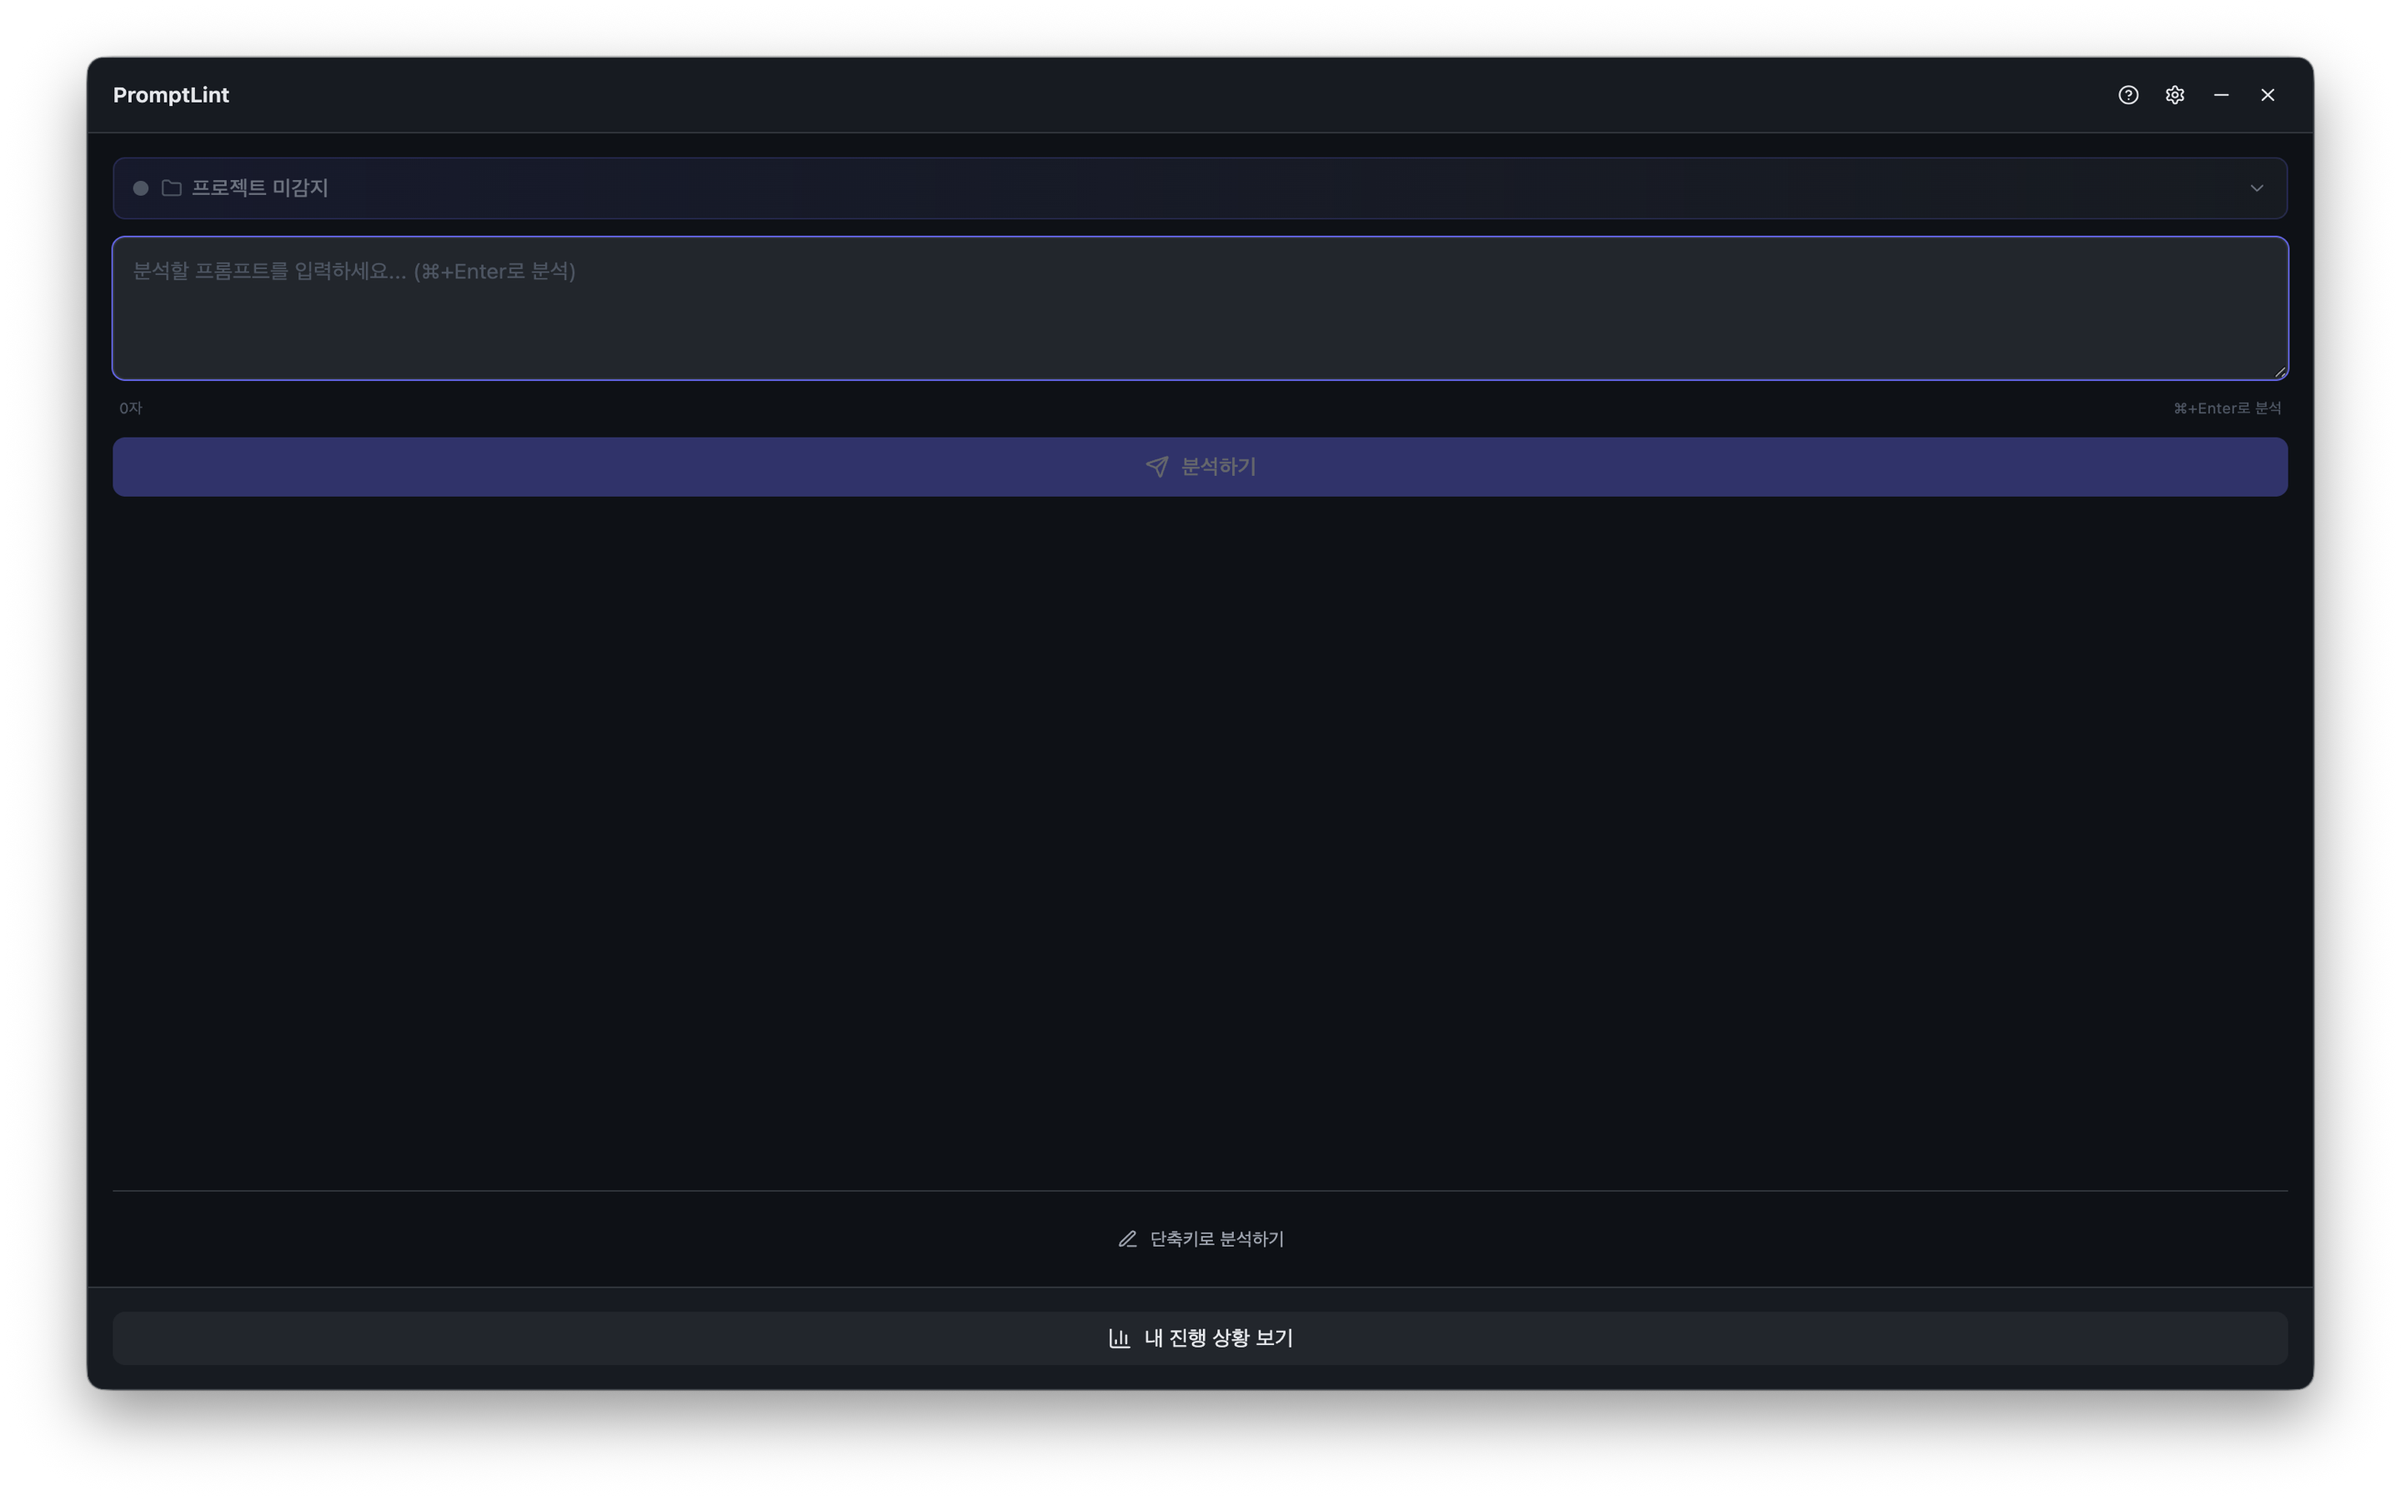
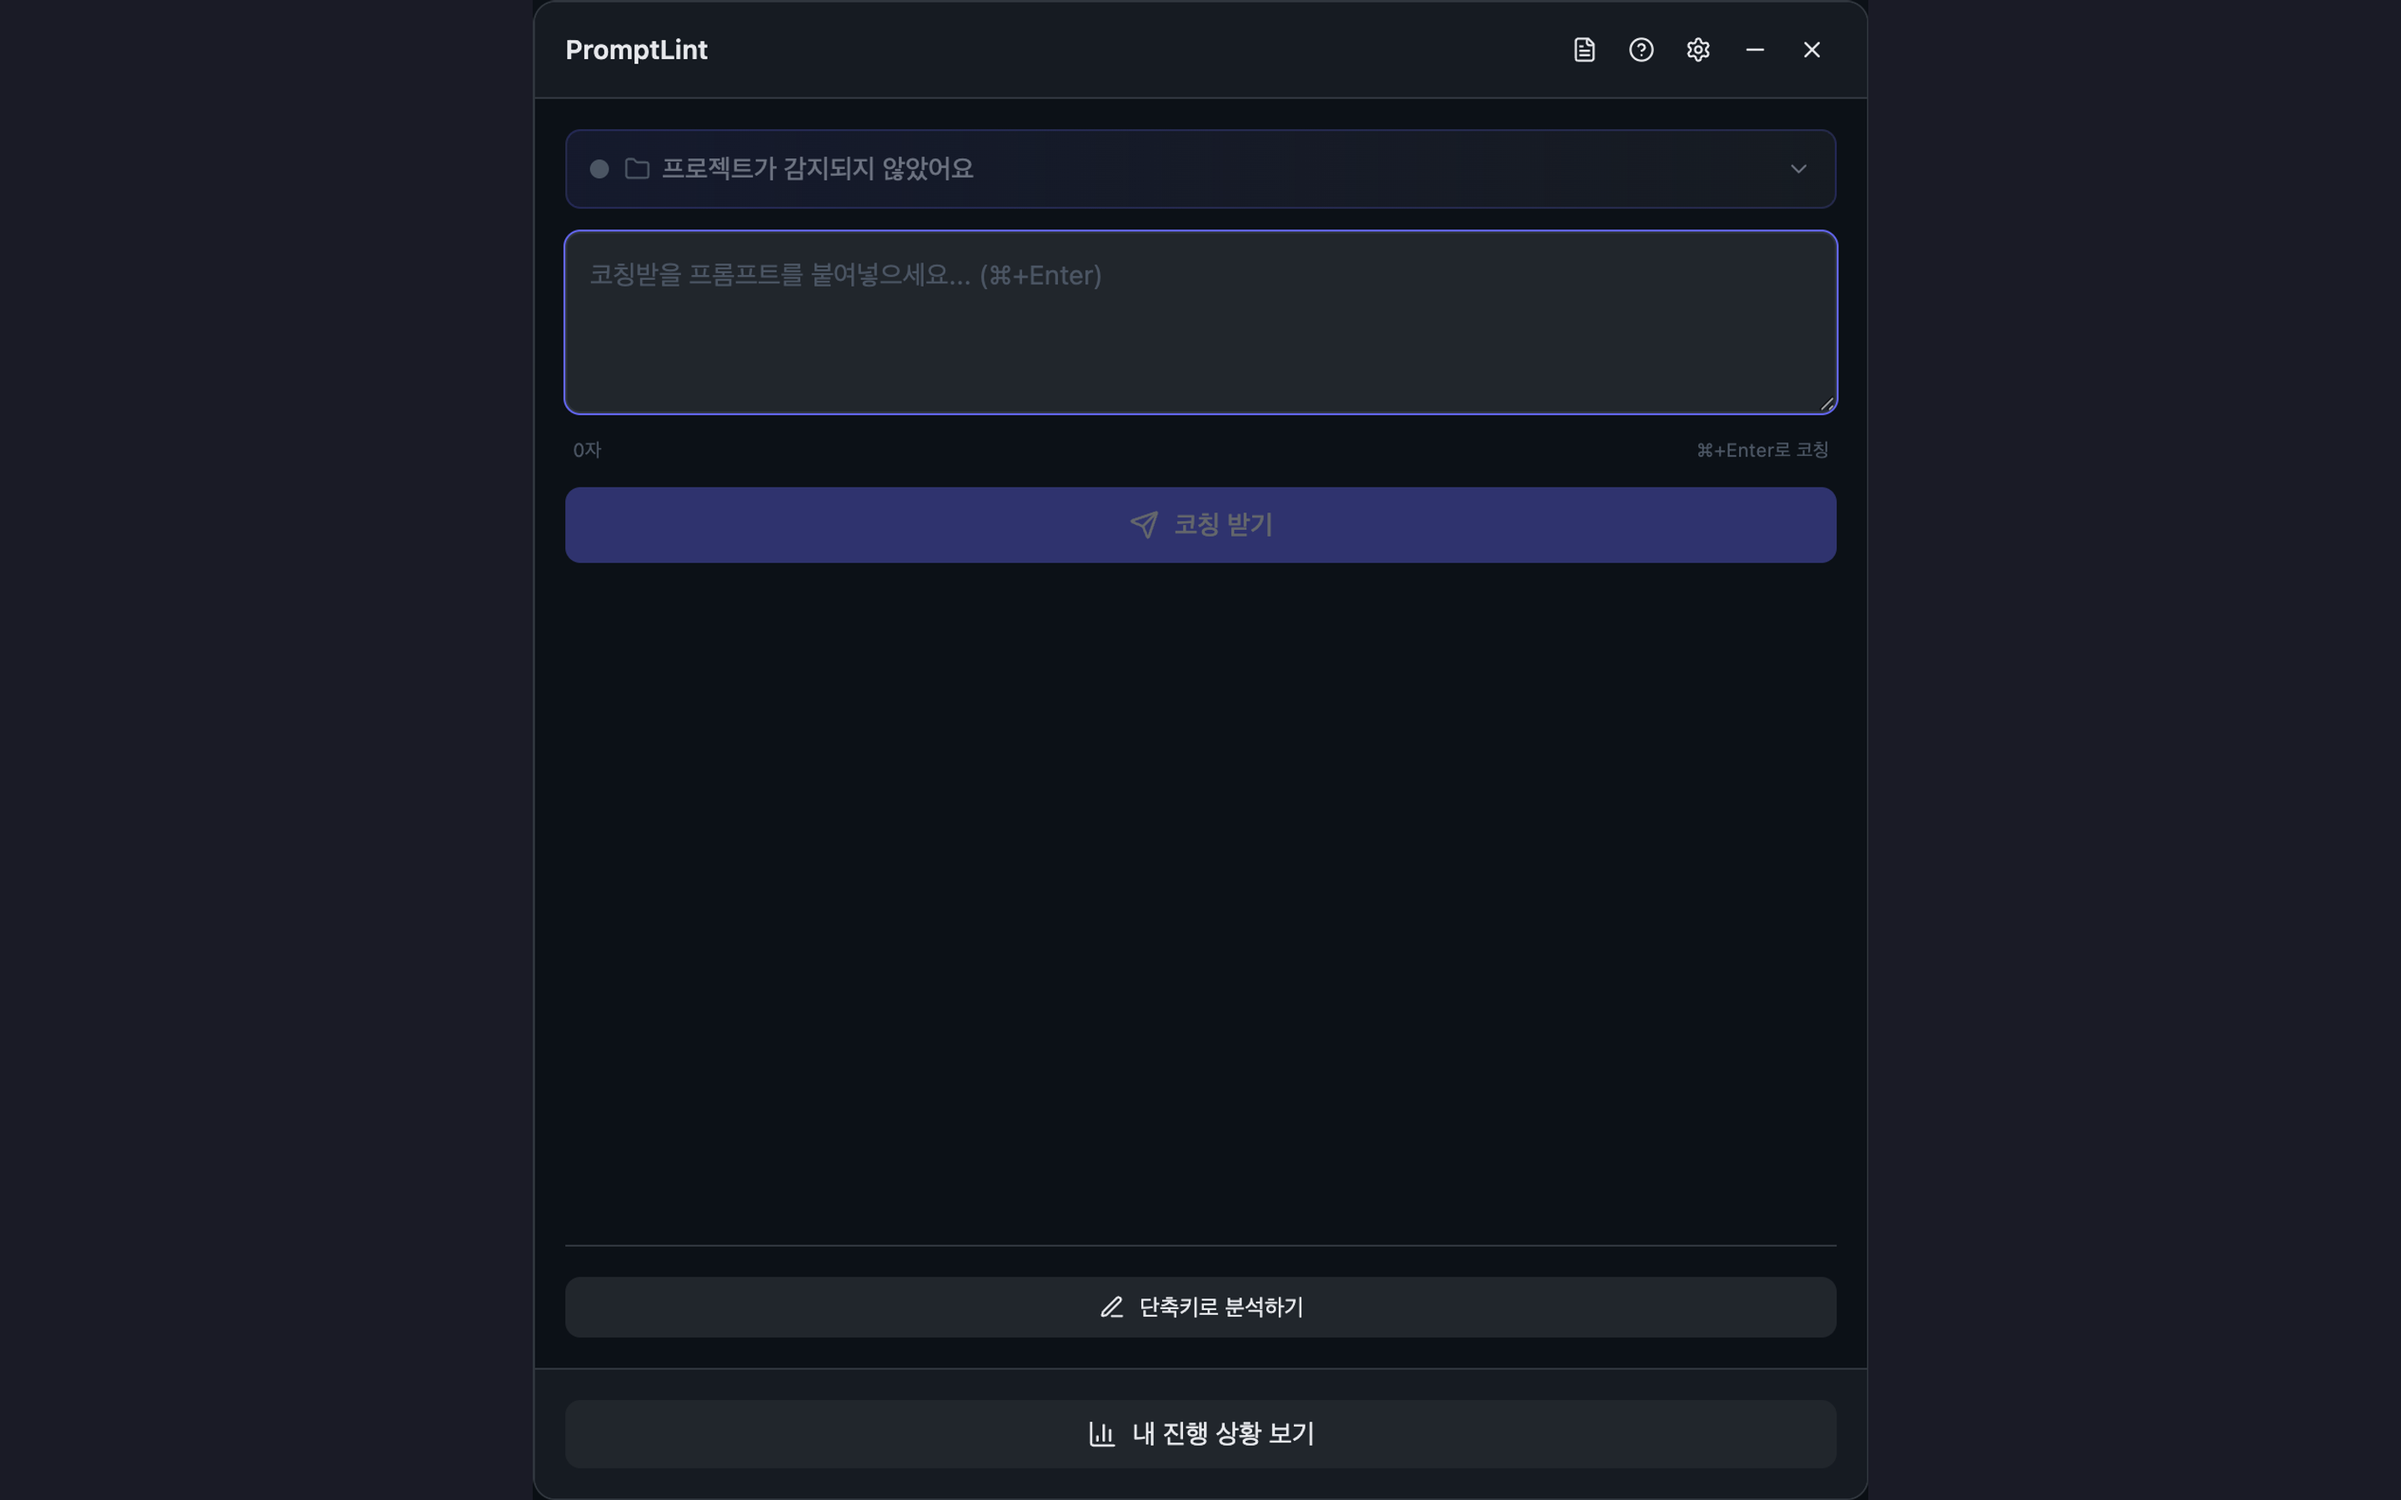
chore(desktop): add App Store metadata and coaching UI screenshots
- Add APPSTORE_METADATA.md with ko/en descriptions for v0.1.14
- Add capture-appstore-screenshots.ts (Playwright + Electron)
- Update all 5 screenshots to reflect coaching UX redesign

Changed region(s): [[0.0, 0.0, 1.0, 1.0]]

diff --git a/desktop/scripts/capture-appstore-screenshots.ts b/desktop/scripts/capture-appstore-screenshots.ts
@@ -1,0 +1,154 @@
+#!/usr/bin/env npx tsx
+/**
+ * App Store Screenshot Capture (Coaching UX)
+ *
+ * Uses Playwright + Electron to capture real UI screenshots.
+ * Requires: npm run build:all (already built)
+ *
+ * Run: npx tsx scripts/capture-appstore-screenshots.ts
+ */
+
+import { _electron as electron } from 'playwright';
+import { join } from 'path';
+import { mkdtempSync, rmSync, mkdirSync, existsSync, renameSync } from 'fs';
+import { tmpdir } from 'os';
+import sharp from 'sharp';
+
+const SCREENSHOT_DIR = join(process.cwd(), 'screenshots');
+const TARGET_WIDTH = 2880;
+const TARGET_HEIGHT = 1800;
+
+const SAMPLE_PROMPT = `현재 상황을 분석해줘. 코드를 리팩토링하고 싶은데 어떻게 하면 좋을까? 버그도 있는 것 같고, 테스트도 추가해야 할 것 같아. 전체적으로 개선할 부분을 알려줘.`;
+
+async function resizeTo2x(inputPath: string): Promise<void> {
+  const tmpPath = inputPath + '.tmp';
+  await sharp(inputPath)
+    .resize(TARGET_WIDTH, TARGET_HEIGHT, {
+      fit: 'contain',
+      background: { r: 26, g: 27, b: 38, alpha: 1 },
+    })
+    .png()
+    .toFile(tmpPath);
+  renameSync(tmpPath, inputPath);
+}
+
+async function main() {
+  console.log('App Store Screenshot Capture');
+  console.log('============================\n');
+
+  if (!existsSync(SCREENSHOT_DIR)) {
+    mkdirSync(SCREENSHOT_DIR, { recursive: true });
+  }
+
+  const mainPath = join(process.cwd(), 'dist', 'main', 'index.js');
+  const testDbDir = mkdtempSync(join(tmpdir(), 'promptlint-screenshots-'));
+
+  console.log('Launching Electron app...');
+  const app = await electron.launch({
+    args: [mainPath],
+    env: {
+      ...process.env,
+      NODE_ENV: 'test',
+      PROMPTLINT_DB_DIR: testDbDir,
+      ELECTRON_DISABLE_SECURITY_WARNINGS: 'true',
+    },
+  });
+
+  const mainWindow = await app.firstWindow();
+  await mainWindow.waitForLoadState('domcontentloaded');
+  await mainWindow.waitForTimeout(2000);
+  console.log('App ready.\n');
+
+  // --- Screenshot 1: Direct Input (empty state) ---
+  console.log('[1/5] Direct Input (empty state)');
+  const directInputBtn = mainWindow.locator('button:has-text("직접 입력"), button:has-text("Direct Input"), button:has-text("직접 입력하기")');
+  if (await directInputBtn.isVisible({ timeout: 3000 }).catch(() => false)) {
+    await directInputBtn.click();
+    await mainWindow.waitForTimeout(500);
+  }
+  await mainWindow.screenshot({ path: join(SCREENSHOT_DIR, '1-direct-input.png') });
+  await resizeTo2x(join(SCREENSHOT_DIR, '1-direct-input.png'));
+  console.log('  Saved.\n');
+
+  // --- Trigger analysis ---
+  console.log('Sending prompt for analysis...');
+  await app.evaluate(
+    ({ BrowserWindow }, payload) => {
+      const windows = BrowserWindow.getAllWindows();
+      if (windows.length > 0) {
+        windows[0].webContents.send('clipboard-text', payload);
+      }
+    },
+    {
+      text: SAMPLE_PROMPT,
+      capturedContext: null,
+      isSourceAppBlocked: false,
+      sourceApp: 'test',
+    }
+  );
+
+  await mainWindow.waitForSelector('.grade-badge', { timeout: 15000 });
+  await mainWindow.waitForTimeout(1000);
+  console.log('Analysis complete.\n');
+
+  // --- Screenshot 2: Coaching Analysis (TopFixCard + GoldenMiniBar) ---
+  console.log('[2/5] Coaching Analysis (main view)');
+  await mainWindow.evaluate(() => {
+    document.querySelector('.overflow-y-auto')?.scrollTo(0, 0);
+  });
+  await mainWindow.waitForTimeout(500);
+  await mainWindow.screenshot({ path: join(SCREENSHOT_DIR, '2-coaching-analysis.png') });
+  await resizeTo2x(join(SCREENSHOT_DIR, '2-coaching-analysis.png'));
+  console.log('  Saved.\n');
+
+  // --- Screenshot 3: Suggested Rewrite (expand collapsible) ---
+  console.log('[3/5] Suggested Rewrite');
+  const rewriteBtn = mainWindow.locator('button:has-text("추천 수정안"), button:has-text("Suggested Rewrite")');
+  if (await rewriteBtn.isVisible({ timeout: 3000 }).catch(() => false)) {
+    await rewriteBtn.click();
+    await mainWindow.waitForTimeout(800);
+  }
+  await mainWindow.screenshot({ path: join(SCREENSHOT_DIR, '3-suggested-rewrite.png') });
+  await resizeTo2x(join(SCREENSHOT_DIR, '3-suggested-rewrite.png'));
+  console.log('  Saved.\n');
+
+  // --- Screenshot 4: Progress Tracker ---
+  console.log('[4/5] Progress Tracker');
+  const progressBtn = mainWindow.locator('button:has-text("내 진행 상황"), button:has-text("My Progress")');
+  if (await progressBtn.isVisible({ timeout: 3000 }).catch(() => false)) {
+    await progressBtn.click();
+    await mainWindow.waitForTimeout(1000);
+  }
+  await mainWindow.screenshot({ path: join(SCREENSHOT_DIR, '4-progress-stats.png') });
+  await resizeTo2x(join(SCREENSHOT_DIR, '4-progress-stats.png'));
+  console.log('  Saved.\n');
+
+  // --- Screenshot 5: Settings ---
+  console.log('[5/5] Settings');
+  const backBtn = mainWindow.locator('button[aria-label*="뒤로"], button[aria-label*="back" i]');
+  if (await backBtn.isVisible({ timeout: 2000 }).catch(() => false)) {
+    await backBtn.click();
+    await mainWindow.waitForTimeout(500);
+  }
+  const settingsBtn = mainWindow.locator('button[aria-label*="설정"], button[aria-label*="Settings" i]');
+  if (await settingsBtn.first().isVisible({ timeout: 2000 }).catch(() => false)) {
+    await settingsBtn.first().click();
+    await mainWindow.waitForTimeout(800);
+  }
+  await mainWindow.screenshot({ path: join(SCREENSHOT_DIR, '5-settings.png') });
+  await resizeTo2x(join(SCREENSHOT_DIR, '5-settings.png'));
+  console.log('  Saved.\n');
+
+  // Cleanup
+  await app.close();
+  try { rmSync(testDbDir, { recursive: true, force: true }); } catch { /* ignore */ }
+
+  console.log('============================');
+  console.log(`All screenshots saved to: ${SCREENSHOT_DIR}`);
+  console.log(`Size: ${TARGET_WIDTH}x${TARGET_HEIGHT} (App Store format)`);
+}
+
+main().catch((err) => {
+  console.error('Error:', err);
+  process.exit(1);
+});

diff --git a/desktop/APPSTORE_METADATA.md b/desktop/APPSTORE_METADATA.md
@@ -1,0 +1,126 @@
+# App Store Connect Metadata — PromptLint v0.1.14
+
+## Korean (ko)
+
+### App Name
+PromptLint - AI 프롬프트 코치
+
+### Subtitle (30 chars max)
+AI에게 더 나은 질문하는 법
+
+### Promotional Text (170 chars max)
+채점이 아닌 코칭. 가장 효과 높은 개선 포인트 하나를 집어주고, 바로 고칠 수 있게 도와줍니다. GOLDEN 6차원 분석으로 프롬프트 실력이 쌓이는 걸 직접 확인하세요.
+
+### Description (4000 chars max)
+PromptLint는 AI에게 더 좋은 질문을 하도록 코칭해주는 맥 앱입니다.
+
+Grammarly가 글쓰기를 도와주듯, PromptLint는 AI 프롬프트 작성을 도와줍니다. 단축키 한 번이면 지금 작성 중인 프롬프트를 즉시 분석하고, 가장 효과적인 개선점을 알려줍니다.
+
+**코칭 방식의 피드백**
+점수만 보여주는 채점이 아닙니다. "지금 이것만 고치세요"로 가장 임팩트 있는 한 가지를 집어주고, 원클릭으로 바로 적용할 수 있습니다. 고치기 전과 후를 비교해보며 자연스럽게 실력이 늡니다.
+
+**GOLDEN 6차원 분석**
+프롬프트를 6가지 차원(Goal, Output, Limits, Data, Evaluation, Next)으로 평가합니다. 어떤 부분이 약한지 한눈에 파악하고, 차원별 맞춤 코칭을 받으세요.
+
+**추천 수정안**
+분석 결과를 바탕으로 개선된 프롬프트를 자동 생성합니다. 보수적/균형/적극적 3가지 수정안을 비교하고, AI 프로바이더(Claude, GPT, Gemini)를 연결하면 더 정교한 수정안도 받을 수 있습니다.
+
+**내 진행 상황 추적**
+분석 기록이 쌓이면서 점수 추이, 차원별 강약점, 달성 기록을 확인할 수 있습니다. 일별/주별/월별 통계로 실력 성장을 직접 확인하세요.
+
+**프로젝트 인식**
+VS Code, Cursor, JetBrains 등 IDE에서 작업 중인 프로젝트를 자동 감지합니다. 프로젝트 컨텍스트를 반영한 더 정확한 분석과 코칭을 제공합니다.
+
+**주요 기능**
+- 단축키로 즉시 분석 (Cmd+Shift+;)
+- "지금 이것만!" 원클릭 코칭
+- GOLDEN 6차원 점수 + 등급 (A~F)
+- 3가지 수정안 자동 생성
+- AI 프로바이더 연동 (선택사항)
+- 프로젝트 자동 감지 + 컨텍스트 분석
+- 진행 상황 추적 (점수 추이, 차원별 평균)
+- 한국어/English 지원
+- 시스템 트레이 상주, 항상 접근 가능
+- 완전 오프라인 동작 (AI 연동 없이도 사용 가능)
+
+### What's New (v0.1.14)
+코칭 UX로 완전히 새로워졌습니다.
+
+- "지금 이것만!" — 가장 효과 높은 개선 포인트를 바로 보여줍니다
+- 원클릭 수정 — 코칭 포인트를 바로 적용할 수 있습니다
+- GOLDEN 미니바 — 6차원 점수를 한 줄로 한눈에 확인
+- 추천 수정안 — 접기/펴기로 깔끔하게 정리
+- 설정 UI 개선 — 4탭 구조로 직관적 설정
+- CLAUDE.md 린터 — 프로젝트 인스트럭션 파일 분석
+
+### Keywords (100 chars max)
+프롬프트,AI,코칭,ChatGPT,Claude,분석,개선,개발자,생산성,코딩
+
+---
+
+## English (en)
+
+### App Name
+PromptLint - AI Prompt Coach
+
+### Subtitle (30 chars max)
+Write better AI prompts
+
+### Promotional Text (170 chars max)
+Not grading — coaching. PromptLint finds the single highest-impact fix in your prompt and helps you apply it instantly. Track your growth with GOLDEN 6-dimension scoring.
+
+### Description (4000 chars max)
+PromptLint coaches you to ask better questions to AI.
+
+Like Grammarly for writing, PromptLint helps you craft better AI prompts. One keyboard shortcut instantly analyzes your prompt and shows the most impactful improvement you can make.
+
+**Coaching, Not Grading**
+Instead of just showing a score, PromptLint says "Fix This First" — pinpointing the single change that will improve your prompt the most. Apply it with one click, see the before/after, and naturally build your skills over time.
+
+**GOLDEN 6-Dimension Analysis**
+Your prompt is evaluated across 6 dimensions: Goal, Output, Limits, Data, Evaluation, and Next. See exactly where you're strong and where to improve, with targeted coaching for each dimension.
+
+**Suggested Rewrites**
+Get automatically generated improved prompts based on your analysis. Compare conservative, balanced, and comprehensive variants. Connect an AI provider (Claude, GPT, Gemini) for even more refined suggestions.
+
+**Track Your Progress**
+As your analysis history grows, view score trends, dimensional strengths/weaknesses, and achievements. Daily, weekly, and monthly stats show your real improvement.
+
+**Project-Aware**
+Automatically detects your active project from VS Code, Cursor, JetBrains, and terminals. Uses project context for more accurate analysis and coaching.
+
+**Key Features**
+- Instant analysis via hotkey (Cmd+Shift+;)
+- "Fix This First" one-click coaching
+- GOLDEN 6-dimension scores + grades (A-F)
+- 3 auto-generated rewrite variants
+- AI provider integration (optional)
+- Auto project detection + context-aware analysis
+- Progress tracking (score trends, dimensional averages)
+- Korean / English support
+- System tray resident, always accessible
+- Fully offline capable (works without AI integration)
+
+### What's New (v0.1.14)
+Completely redesigned with coaching UX.
+
+- "Fix This First" — instantly shows the highest-impact improvement
+- One-click fix — apply coaching suggestions directly
+- GOLDEN mini bar — see all 6 dimension scores at a glance
+- Suggested rewrites — clean collapsible layout
+- Redesigned settings — intuitive 4-tab layout
+- CLAUDE.md linter — analyze project instruction files
+
+### Keywords (100 chars max)
+prompt,AI,coaching,ChatGPT,Claude,analysis,developer,productivity,coding,writing
+
+---
+
+## Category
+Developer Tools
+
+## Age Rating
+4+
+
+## Price
+Free
